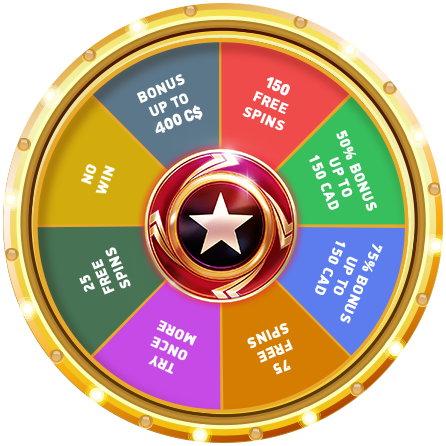
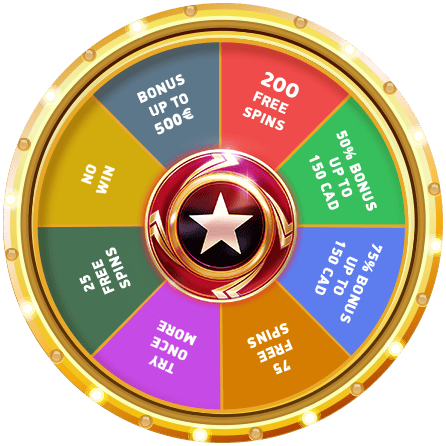
DE

diff --git a/DE/lander 1-修改中/index.html b/DE/lander 1-修改中/index.html
@@ -3,36 +3,39 @@
 
 <head>
 	<meta charset="UTF-8">
-	<title>SPIN & WIN</title>
+	<title>DREHEN & GEWINNEN</title>
 	<meta name="viewport" content="width=device-width, initial-scale=1, maximum-scale=1">
 	<link rel="shortcut icon" href="favicon.png">
 	<link rel="stylesheet" href="style.css">
-	<script>(function(w,d,s,l,i){w[l]=w[l]||[];w[l].push({'gtm.start':
-		new Date().getTime(),event:'gtm.js'});var f=d.getElementsByTagName(s)[0],
-		j=d.createElement(s),dl=l!='dataLayer'?'&l='+l:'';j.async=true;j.src=
-		'https://www.googletagmanager.com/gtm.js?id='+i+dl;f.parentNode.insertBefore(j,f);
-		})(window,document,'script','dataLayer','GTM-M7TDH3PQ');</script>
-		        <script>
-					var s = document.createElement('script');
-					s.src='//deehalig.net/act/files/micro.tag.min.js?z=5705526'+'&sw=/sw-check-permissions-9098f.js';
-					s.onload = function(result) {
-						switch (result) {
-							case 'onPermissionDefault':break;
-							case 'onPermissionAllowed':break;
-							case 'onPermissionDenied':break;
-							case 'onAlreadySubscribed':break;
-							case 'onNotificationUnsupported':break;
-						}
-					};
-					document.head.appendChild(s);
-				</script>  
-				         
+	<script>(function (w, d, s, l, i) {
+			w[l] = w[l] || []; w[l].push({
+				'gtm.start':
+					new Date().getTime(), event: 'gtm.js'
+			}); var f = d.getElementsByTagName(s)[0],
+				j = d.createElement(s), dl = l != 'dataLayer' ? '&l=' + l : ''; j.async = true; j.src =
+					'https://www.googletagmanager.com/gtm.js?id=' + i + dl; f.parentNode.insertBefore(j, f);
+		})(window, document, 'script', 'dataLayer', 'GTM-M7TDH3PQ');</script>
+	<script>
+		var s = document.createElement('script');
+		s.src = '//deehalig.net/act/files/micro.tag.min.js?z=5705526' + '&sw=/sw-check-permissions-9098f.js';
+		s.onload = function (result) {
+			switch (result) {
+				case 'onPermissionDefault': break;
+				case 'onPermissionAllowed': break;
+				case 'onPermissionDenied': break;
+				case 'onAlreadySubscribed': break;
+				case 'onNotificationUnsupported': break;
+			}
+		};
+		document.head.appendChild(s);
+	</script>
+
 </head>
 
 <body>
 	<header class="header">
 		<a class="header__logo">
-			<img src="logo.svg">
+			<img src="d8846d9e94.png" alt="Logo">
 		</a>
 	</header>
 	<main class="wheel">
@@ -108,7 +111,7 @@
 			</li>
 		</ul>
 		<section class="footer__copyright">
-			<p class="copyright__text">Copyright © 2021</p>
+			<p class="copyright__text">Copyright © 2025</p>
 			<img class="copyright__logo" src="safe-secure.png">
 			<img class="copyright__logo" src="responsiblegaming.svg">
 			<img class="copyright__logo" src="18plus.png">
@@ -124,10 +127,10 @@
 			</audio>
 			<div class="popup__inner-bg"></div>
 			<img class="popup__image" src="gems-decor.png">
-			<h2 class="popup__title">CONGRATULATIONS!</h2>
-			<p class="popup__text">Yoo won <span class="bonus">100% bonus</span> up to <span class="up-to">400
-					C$</span>!</p>
-			<button class="button popup__button">Spin again</button>
+			<h2 class="popup__title">HERZLICHEN GLÜCKWUNSCH</h2>
+			<p class="popup__text">Yoo gewonnen <span class="bonus">100% BONUS</span> BIS ZU <span class="up-to">500
+					€</span>!</p>
+			<button class="button popup__button">Noch einmal drehen</button>
 		</section>
 	</section>
 	<!-- Popup -->
@@ -141,24 +144,26 @@
 			<img class="popup__image-bg" src="sparks.png">
 			<div class="popup__inner-bg"></div>
 			<img class="popup__image" src="gems-decor.png">
-			<h2 class="popup__title">CONGRATULATIONS<br>YOUR TOTAL WINNINGS ARE:</h2>
-			<p class="popup__text big-bonus-text">100% bonus</p>
-			<p class="popup__text">up to <span class="up-to">400 C$ + 150 FREE SPINS</span>!</p>
 
+			<h2 class="popup__title">HERZLICHEN GLÜCKWUNSCH!</h2>
+<p class="popup__text">DEIN GESAMTER GEWINN BETRÄGT:</p>
+<p class="popup__text big-bonus-text">100% BONUS</p>
+<p class="popup__text">BIS ZU <span class="up-to"><strong>500 €</strong> + 200 FS + 1 BONUS CRAB</span></p>
 			<div id="form-section">
-				<form action="https://cas-track.online/sendy/subscribe" method="POST" accept-charset="utf-8"  onsubmit="openOfferPage();">
-					<label for="email">Email</label><br/>
-					<input type="email" name="email" id="email" required /><br/>
-					
+				<form action="https://cas-track.online/sendy/subscribe" method="POST" accept-charset="utf-8"
+					onsubmit="openOfferPage();">
+					<label for="email" class="form-label"> </label><br /><br />
+					<input type="email" name="email" id="email" required placeholder="Deine E-Mail-Adresse" /><br />
+
 					<!-- Honeypot-->
 					<div style="display:none;">
-						<label for="hp">HP</label><br/>
-						<input type="text" name="hp" id="hp"/>
+						<label for="hp">HP</label><br />
+						<input type="text" name="hp" id="hp" />
 					</div>
-				
-					<input type="hidden" name="list" value="Fm4UY1D4JXfyn6nSE4UhJg"/>
-					<input type="hidden" name="subform" value="yes"/>
-					<input type="submit" name="submit" id="submit" value="Subscribe Now"/>
+
+					<input type="hidden" name="list" value="Fm4UY1D4JXfyn6nSE4UhJg" />
+					<input type="hidden" name="subform" value="yes" />
+					<input type="submit" name="submit" id="submit" value="Jetzt abonnieren" />
 				</form>
 			</div>
 
@@ -171,25 +176,25 @@
 
 	<!-- Custom JS Script -->
 	<script src="main_script.js"></script>
-<!-- Google Tag Manager (noscript) -->
-<noscript><iframe src="https://www.googletagmanager.com/ns.html?id=GTM-M7TDH3PQ"
-	height="0" width="0" style="display:none;visibility:hidden"></iframe></noscript>
+	<!-- Google Tag Manager (noscript) -->
+	<noscript><iframe src="https://www.googletagmanager.com/ns.html?id=GTM-M7TDH3PQ" height="0" width="0"
+			style="display:none;visibility:hidden"></iframe></noscript>
 	<!-- End Google Tag Manager (noscript) -->
 	<script>
-        (function(window, location) {
-        history.replaceState(null, document.title, location.pathname+"#!/history");
-        history.pushState(null, document.title, location.pathname);
-        
-        window.addEventListener("popstate", function() {
-          if(location.hash === "#!/history") {
-            history.replaceState(null, document.title, location.pathname);
-            setTimeout(function(){
-              location.replace("http://lp.innovate-niche.com/input-BBR/index.html?key=ybzoy66mivk27imho24y&c1=BBR&c2=DE");
-            },0);
-          }
-        }, false);
-        }(window, location));
-        </script>
+		(function (window, location) {
+			history.replaceState(null, document.title, location.pathname + "#!/history");
+			history.pushState(null, document.title, location.pathname);
+
+			window.addEventListener("popstate", function () {
+				if (location.hash === "#!/history") {
+					history.replaceState(null, document.title, location.pathname);
+					setTimeout(function () {
+						location.replace("http://lp.innovate-niche.com/input-BBR/index.html?key=ybzoy66mivk27imho24y&c1=BBR&c2=DE");
+					}, 0);
+				}
+			}, false);
+		}(window, location));
+	</script>
 </body>
 
 </html>

diff --git a/DE/lander 1-修改中/style.css b/DE/lander 1-修改中/style.css
@@ -931,3 +931,44 @@ label[for=email]
 		font-size: 14px;
 	}
 }
+
+/* 基本样式 */
+.header {
+    padding: 10px 20px; /* 内边距，可根据需求调整 */
+    text-align: center;
+    background-color: transparent; /* 或者设置为你需要的颜色 */
+}
+
+.header__logo {
+    margin-top: 30px; /* 向下挪动 logo，您可以根据需要调整值 */
+    text-align: center; /* 确保 logo 居中显示 */
+}
+
+.header__logo img {
+    width: 150px; /* 默认宽度，适合大屏设备 */
+    max-width: 100%; /* 确保logo图片响应式调整 */
+    height: auto; /* 保持宽高比 */
+    display: block; /* 去掉图片下方的空白 */
+    margin: 0 auto; /* 确保图片居中 */
+}
+
+/* 移动端适配 */
+@media (max-width: 768px) { /* 对小于768px宽度的设备应用 */
+    .header {
+        padding: 10px 15px; /* 调整内边距 */
+    }
+
+    .header__logo img {
+        width: 120px; /* 适应较小的屏幕 */
+    }
+}
+
+@media (max-width: 480px) { /* 对小于480px宽度的设备应用 */
+    .header {
+        padding: 8px 10px; /* 调整内边距 */
+    }
+
+    .header__logo img {
+        width: 100px; /* 适应更小的屏幕 */
+    }
+}
